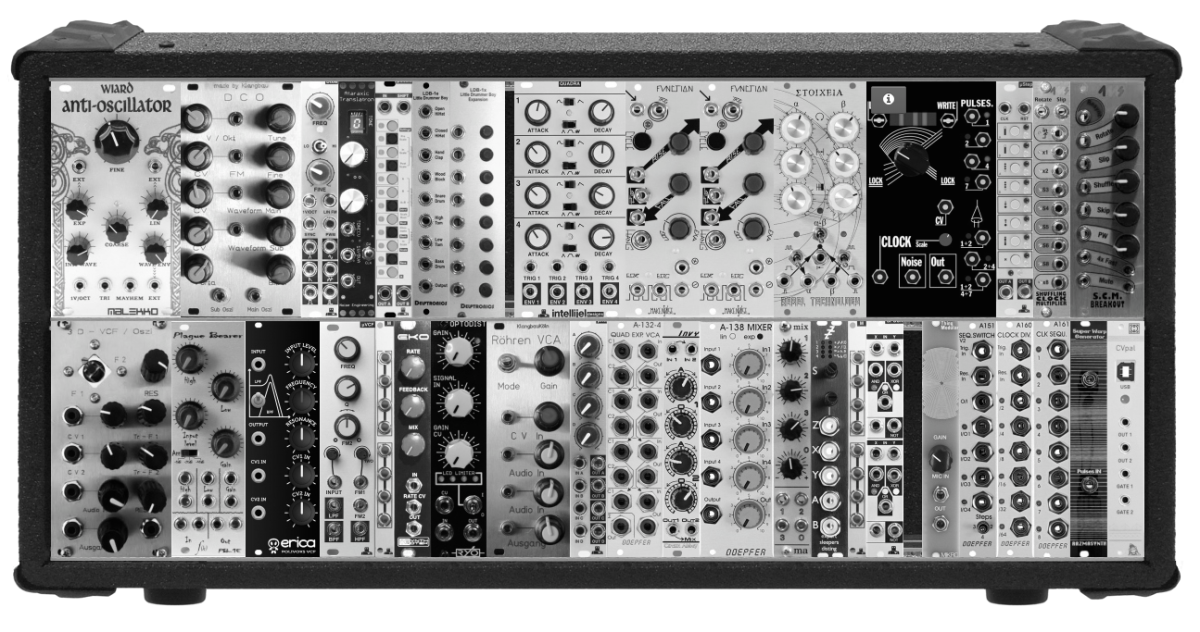
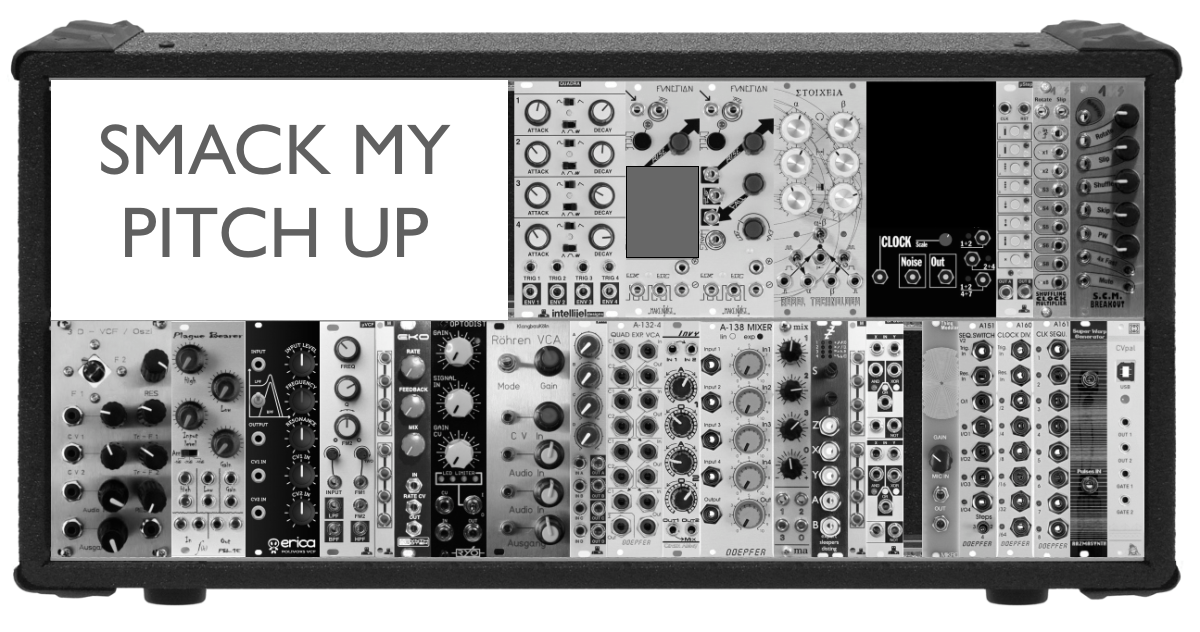
Add Wave analyzer canvas

Changed region(s): [[0.0308, 0.1203, 0.4317, 0.5111], [0.7092, 0.1203, 0.8325, 0.3608], [0.5242, 0.2405, 0.5858, 0.4209]]

diff --git a/pitchdetect-fork.js b/pitchdetect-fork.js
@@ -48,6 +48,12 @@ var newFreq;
 window.onload = function() {
 	audioContext = new AudioContext();
 	MAX_SIZE = Math.max(4,Math.floor(audioContext.sampleRate/5000));	// corresponds to a 5kHz signal
+	DEBUGCANVAS = document.getElementById( "waveform" );
+	if (DEBUGCANVAS) {
+		waveCanvas = DEBUGCANVAS.getContext("2d");
+		waveCanvas.strokeStyle = "black";
+		waveCanvas.lineWidth = 1;
+	}
 	toggleLiveInput();
 }
 
@@ -190,6 +196,17 @@ function updatePitch( time ) {
 	var cycles = new Array;
 	analyser.getFloatTimeDomainData( buf );
 	var ac = autoCorrelate( buf, audioContext.sampleRate );
+
+	if (DEBUGCANVAS) {  // This draws the current waveform, useful for debugging
+		waveCanvas.clearRect(0,0,460,240);
+		waveCanvas.strokeStyle = "white";
+		waveCanvas.beginPath();
+		waveCanvas.moveTo(0,120);
+		for (var i=1;i<460;i++) {
+			waveCanvas.lineTo(i,120+(buf[i]*120));
+		}
+		waveCanvas.stroke();
+	}
 
 	if (!window.requestAnimationFrame)
 		window.requestAnimationFrame = window.webkitRequestAnimationFrame;

diff --git a/smackmypitchup/smackmypitchup.js b/smackmypitchup/smackmypitchup.js
@@ -51,6 +51,7 @@ var currentColor = "#000";
 // Crazy mode values
 var crazyMode = false;
 var noteCount = 0;
+var CRAZY_MODE_THRESHOLD = 200;
 
 
 /* This function copied from https://css-tricks.com/snippets/javascript/lighten-darken-color/ */
@@ -129,8 +130,8 @@ $(document).ready(function () {
 	$(document).on('pitchChanged', function (event, pitch, freq) {	
 		// add note count for activating crazy mode
 		noteCount++;
-		if (noteCount > 100) {
-			$('.button').css({'opacity': (noteCount - 100)/100})
+		if (noteCount > CRAZY_MODE_THRESHOLD) {
+			$('.button').css({'opacity': (noteCount - CRAZY_MODE_THRESHOLD)/100})
 		}
 		// change synth freq
 		if (freq) {

diff --git a/smackmypitchup/index.html b/smackmypitchup/index.html
@@ -46,11 +46,17 @@ img {
     visibility: hidden;
   }
 }
+#waveform {
+	position: absolute;
+    top: 86px;
+    left: 60px;
+}
 </style>
 </head>
 <body>
 <img src="synth.png"/>
 <span class="button" id="button-text">DO NOT PRESS</span>
 <a class="button" href="#" id="red-button"></a>
+<canvas id="waveform" width="460" height="240"></canvas>
 </body>
 </html>
